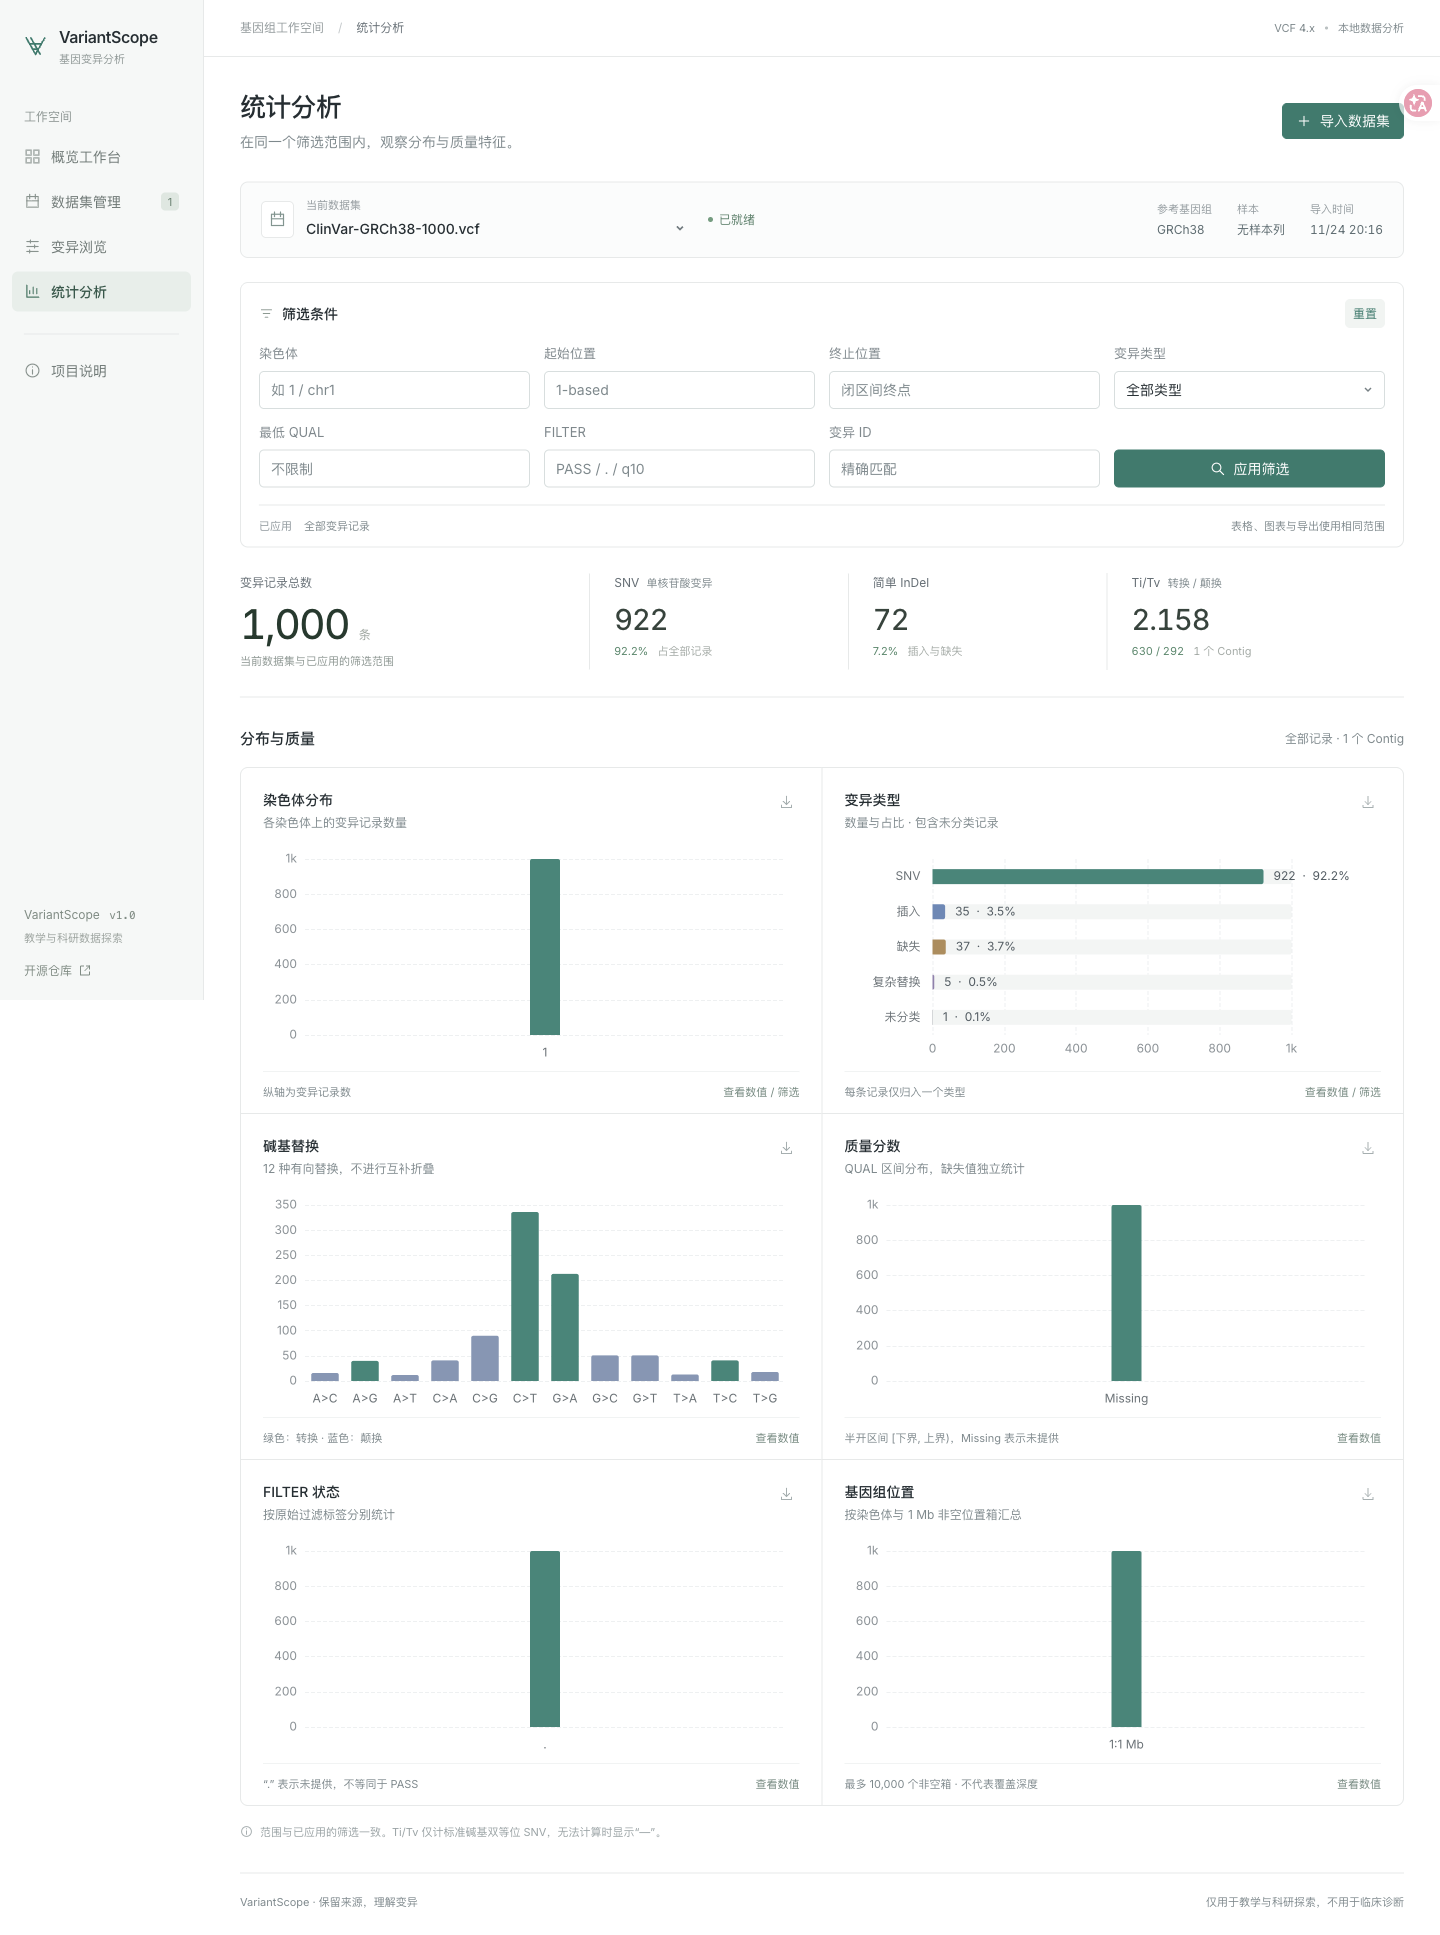
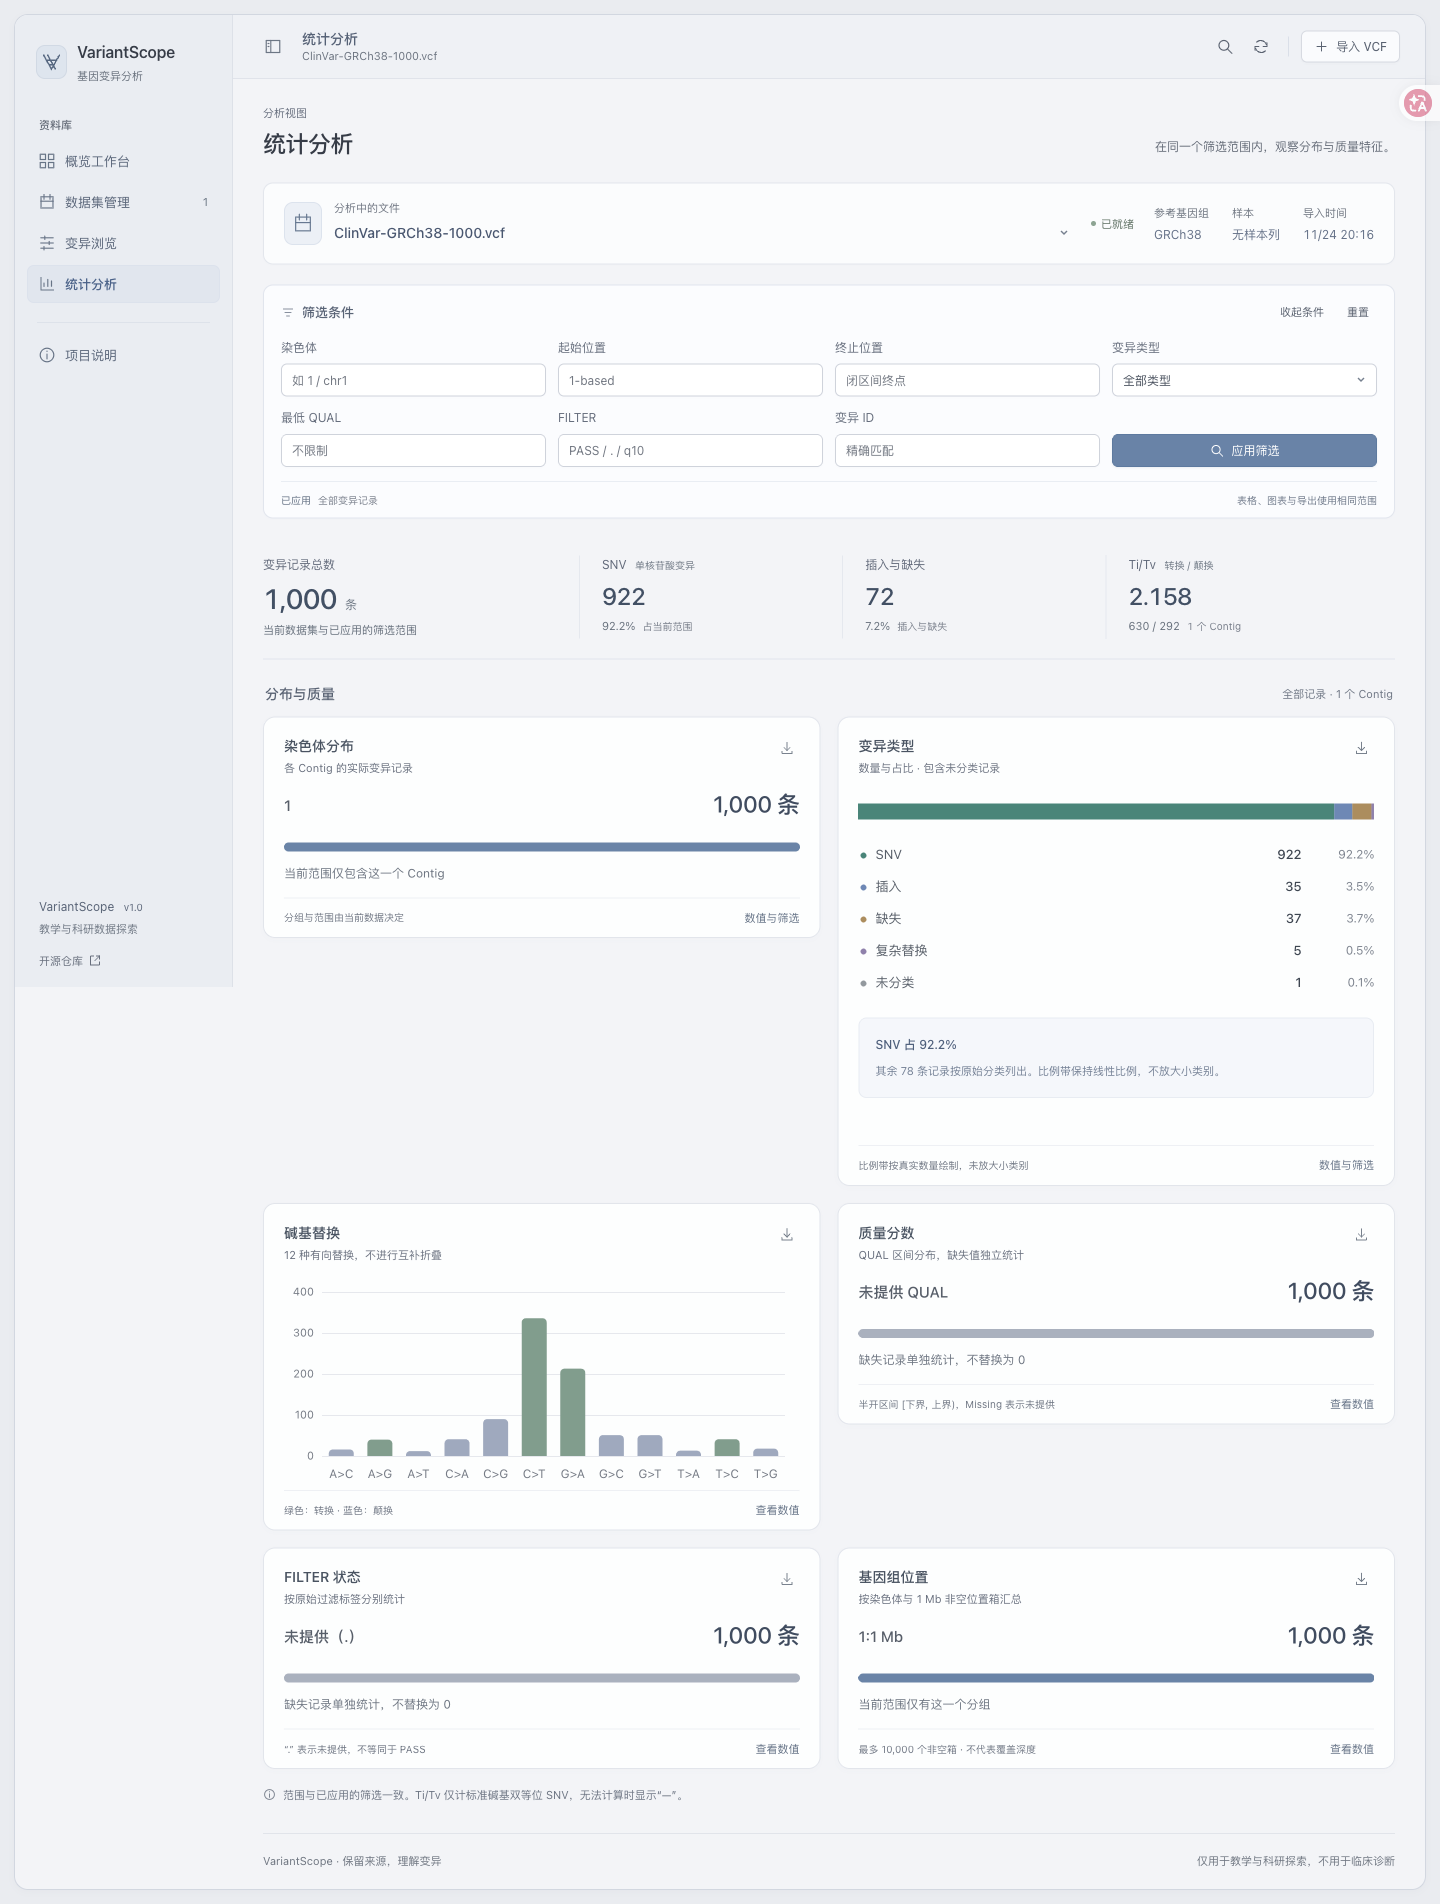
docs(ui): publish native design decisions and five-page visual comparisons

diff --git a/docs/NATIVE-REDESIGN.md b/docs/NATIVE-REDESIGN.md
@@ -1,0 +1,84 @@
+# VariantScope：桌面原生层级视觉重设计
+
+验收日期：2026-11-25（Asia/Shanghai）。基于 `8542c8d` 的真实界面重新组织前端结构。Java 后端、MySQL 数据表、VCF 解析、查询接口和统计口径均未更改；所有图表来自原服务返回的数据。
+
+## 设计依据与取舍
+
+参考 Apple 官方 [Designing for macOS](https://developer.apple.com/design/human-interface-guidelines/designing-for-macos)、[Charts](https://developer.apple.com/design/human-interface-guidelines/charts)、[Sidebars](https://developer.apple.com/design/human-interface-guidelines/sidebars)。采用其清晰层级、桌面信息密度、可收起导航与按数据意义选择图形的原则；具体布局、颜色、标识和组件均为 VariantScope 自己实现。没有复制 Apple 应用界面、品牌标识、交通灯控件或字体文件。这是运行在浏览器中的专业工具界面，不声称变成原生 macOS 应用。
+
+| 设计决策 | 改造前 | 本次实现 |
+|---|---|---|
+| 工作空间 | 白色主内容与浅侧栏平铺 | 外层中性背景、统一桌面容器、工具栏、分组内容页形成三层表面 |
+| 导航 | 始终展开，主要靠页面切换 | 桌面 218px 资料库，可收为 68px 图标导航；窄屏由工具栏展开并在选择后收起 |
+| 工具栏 | 面包屑、技术标签、重复页面信息 | 删除面包屑与技术装饰，保留侧栏开关、当前页面、检索、刷新及导入真实操作 |
+| 字体 | 打包 Inter Variable | `-apple-system, BlinkMacSystemFont, Helvetica Neue, PingFang SC, Microsoft YaHei, sans-serif`；不分发 SF 或其他 Apple 字体 |
+| 排版 | 页面标题 26px，主要指标 41px | 页面标题 23px/500，指标 28px 与 24px；表格为等宽数字，次级文字提高可读对比 |
+| 色彩与表面 | 白色图表大网格，绿色强调 | #587da4 克制强调色，#e9edf3 导航、#f3f4f7 内容，低对比边线，6/11/14px 圆角 |
+| 概览结构 | 上下平铺的数据集、指标、同构图表 | 文件与统计合为摘要面板；单分组摘要、构成分析及宽幅替换图按信息性质组织 |
+| 单 Contig | 一根高柱与空旷坐标轴 | 紧凑的类别、数量、横向记录带和明确说明；不推断其他染色体或参考序列长度 |
+| 类型极不均衡 | 小类别横条很难点选 | 真实线性构成带 + 全类别精确数量/百分比 + 主类型摘要；小类别不人为放大 |
+| 表格 | 普通行与详情弹窗 | 更紧凑的交替行、固定表头、持续选中反馈、折叠筛选检查器、浮动详情面板 |
+| 状态反馈 | 全局加载文字 | 加载骨架、真实传输/解析分阶段进度、原生确认弹窗与轻微反馈；尊重减少动态效果设置 |
+
+系统字体随平台实际可用字体回退。在 Mac 上优先使用系统 UI 字体和 PingFang SC；不通过下载、转换或捆绑 Apple 专有字体实现。Inter 依赖与分发文件已经移除。
+
+## 所有页面的实际修改
+
+- **概览**：文件、样本、参考版本、总数与统计口径集中在一张组合面板；不再让大数字压过文件上下文。真实只有 1 个 Contig 时显示简洁的摘要，不画虚假的全基因组分布。
+- **数据集管理**：导入文件区域、可选元数据、提交和公开示例形成独立分组；上传百分比与解析等待阶段分别展示，未把传输 100% 当成解析完成。
+- **变异浏览**：保持后端分页和组合条件；筛选可收起，已应用条件仍可见；数字右对齐、REF/ALT 保留、表头固定、约 39.5px 行高；详情关闭后仍有选中行提示。
+- **统计分析**：六类图表统一系统字体、少量网格线、悬停、配色与数值入口；单分组数据自动使用紧凑表达。图形比例及 Ti/Tv 计算均未改动。
+- **项目说明**：使用分组文档页展示来源、指标方法和支持边界，降低标题字重与尺寸，手机转为单列。
+
+保留原 API 请求、查询草稿/已应用范围、CSV、PNG、原生 dialog 焦点管理及已拆分组件。新增 `LoadingSkeleton`，调整 `Chart` 的数据自适应表达；没有引入庞大的新组件库或重写后端。
+
+## 前后对比与真实截图
+
+前后均以 **1440px 桌面视口**、同一份 **ClinVar GRCh38 前 1,000 条记录**采集。前后图像都由实际运行页面生成；对照页仅等比排列原始图片，保留页面长度差异，不改写图表、数字或颜色。
+
+| 页面 | 前后并排对照 | 修改后的完整页面 |
+|---|---|---|
+| 概览 | [对照](screenshots/compare-overview.png) | [概览](screenshots/overview.png) |
+| 数据集管理 | [对照](screenshots/compare-datasets.png) | [数据集](screenshots/datasets.png) |
+| 变异浏览 | [对照](screenshots/compare-variants.png) | [浏览](screenshots/browser.png) |
+| 统计分析 | [对照](screenshots/compare-analysis.png) | [分析](screenshots/analysis.png) |
+| 项目说明 | [对照](screenshots/compare-about.png) | [说明](screenshots/about.png) |
+
+[手机概览](screenshots/mobile-overview.png)。原始改造前截图保存在 `screenshots/native-before/`。操作系统浏览器扩展的悬浮标记如出现在截图中，不属于 VariantScope 组件，未对截图进行修饰删除。
+
+## 实测与回归
+
+- `npm run test`：**4 个文件、19 项测试通过**。保留原 12 项范围/数据/导入/异常测试，新增真实比例保持、堆叠点击映射、单分组表达、空图禁导出、导航/筛选折叠、刷新失败清理及进度阶段语义测试。
+- `npm run build`：严格 TypeScript 与生产构建通过，无大包告警。主入口 115.76 KB（gzip 44.73 KB），图表组件 7.02 KB、渲染引擎 176.63 KB、图表模块 365.33 KB。仅报告构建大小，未虚构首屏时间。
+- `npm audit`：0 项漏洞。
+- 原 `scripts/smoke.py` 在真实 MySQL 8 服务上通过：导入、缺失参考名、GT、组合条件、分页、统计、CSV 转义、重新分析、重复拒绝、格式错误和删除。
+- GitHub Actions 代码提交 `50b0a4d` 通过，包含原后端 11 项测试、新前端 19 项测试与构建。
+
+### 浏览器逐页检查
+
+五页均检查 1440px 与 390px：桌面 scrollWidth=1440，手机 scrollWidth=390，无页面级横向溢出。科学表格在自己的容器内横向滚动；手机实际行高约 39.5px。桌面导航收合后当前数据集与筛选范围不变；窄屏导航的 aria-expanded 与实际显示状态一致。
+
+真实交互结果：
+
+1. 系统字体栈从实际 computed style 核对；运行时不请求打包字体文件。
+2. 点击类型构成带的 SNV 联动到 922 条结果；CSV 真实下载并数得 922 行。
+3. 打开 1:69134，原始 INFO、缺失 GT 显示正常；Escape 关闭后焦点回到原坐标按钮，保留 1 条选中行。
+4. 明确标记的合成边界 VCF 真实导入 8 条，GT=0/1，参考版本 SYNTHETIC_NOT_A_REAL_ASSEMBLY 来自文件；重新分析后六图显示正常，PNG 实际下载包含比例带与逐类数值。
+5. 删除弹窗可取消、可确认；只删除本次导入的合成测试数据，保留原 ClinVar 数据集。
+6. 通过实际网络延迟检查加载骨架与导入阶段；通过实际离线条件检查错误，不向生产接口注入假结果。
+7. 离线检查发现“刷新列表失败仍保留旧统计”，已修复并加入测试；生产构建复查旧统计为 false、记录数为 0，恢复连接后可重新查询。
+8. 未选择数据集显示空状态；ClinVar QUAL 全缺失，minQual=0 的实际筛选结果为 0 条，显示空查询状态而非补造质量值。
+
+ClinVar 统计保持：总数 1,000、SNV 922、插入 35、缺失 37、复杂替换 5、未分类 1、Ti/Tv=630/292≈2.158。
+
+## 已知限制
+
+- 本次浏览器检查基于 Chromium 的桌面与窄屏视口，不声称已在真实 iOS Safari、Android 或全部辅助技术上完成认证。
+- PNG 仍为图形区域导出；类型图包含逐类数值，但页面级来源说明不自动写入 PNG，未增加 SVG。
+- 系统字体的具体字形与抗锯齿由运行平台决定；非 macOS 不会获得 Apple 专有字体文件。
+- 单 Contig 的横向记录带表示当前分组记录数，不表示染色体长度、测序覆盖率或样本质量。
+- Java/MySQL 的现有分析边界与百万级统计性能限制不变；本次没有重跑后端性能压测，不将旧结果冒充新测试。
+
+## 最终交付
+
+五页改造前、五页改造后、五页前后对照、手机概览和本报告分别保留在 outputs，并按既定规则安全复制到 `~/AI-Workspace/Archive/课程作业/VariantScope/`。源码与工作中的检查图保留在项目/工作目录中。归档是否完成以发布工具返回与最终文件核验为准。

diff --git a/README.md b/README.md
@@ -27,7 +27,9 @@
 
 ![统计分析](docs/screenshots/analysis.png)
 
-前端 UI/UX 已统一重构，设计系统、组件结构、桌面/手机实测及已知限制见 [UI/UX 重构验收](docs/UI-UX-REFACTOR.md)。
+前端已按桌面专业应用的层级重设计，采用系统字体、组合式文件摘要与数据自适应图表。设计决策、五页真实前后对照、桌面/手机验证和限制见 [原生层级重设计验收](docs/NATIVE-REDESIGN.md)。前一轮验收记录仍保留作历史参考。
+
+![概览前后对照](docs/screenshots/compare-overview.png)
 
 ## 快速运行
 
